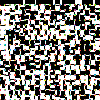
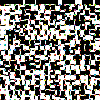
Updated canada.pymy1.png .

Changed region(s): [[0.03, 0.48, 0.12, 0.57], [0.48, 0.0, 0.6, 0.06], [0.54, 0.54, 0.6, 0.6]]

diff --git a/canada.py b/canada.py
@@ -28,7 +28,7 @@ outp=np.asarray(outp)
 img = Image.fromarray(outp, 'RGB')
 img.save('my.png')
 moverPieza(outp,18,1,0,0)
-moverPieza(outp,0,16,0,2)
+moverPieza(outp,0,16,0,10)
 moverPieza(outp,1,4,0,1)
 moverPieza(outp,1,9,0,3)
 moverPieza(outp,2,8,0,4)
@@ -38,7 +38,7 @@ moverPieza(outp,5,3,0,7)
 moverPieza(outp,7,17,0,8)
 moverPieza(outp,8,8,0,9)
 moverPieza(outp,10,1,0,11)
-moverPieza(outp,11,11,0,10)
+moverPieza(outp,11,11,0,2)
 moverPieza(outp,12,16,0,18)
 moverPieza(outp,13,6,0,13)
 moverPieza(outp,15,5,0,14)
